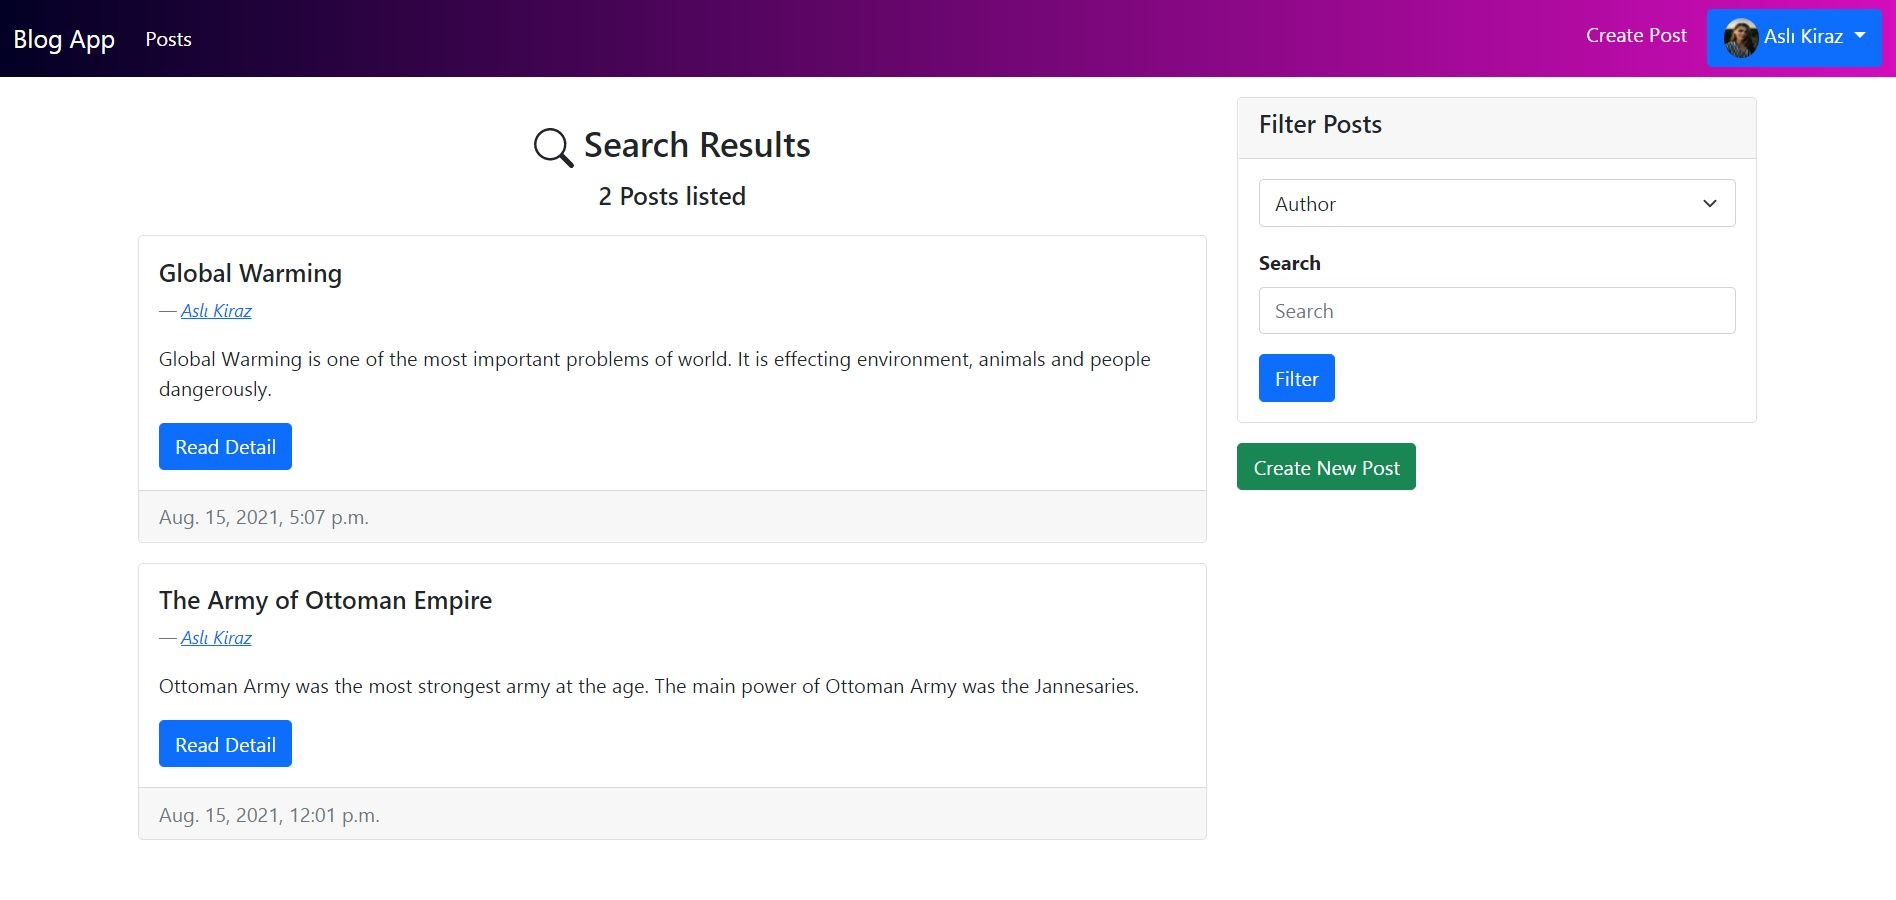
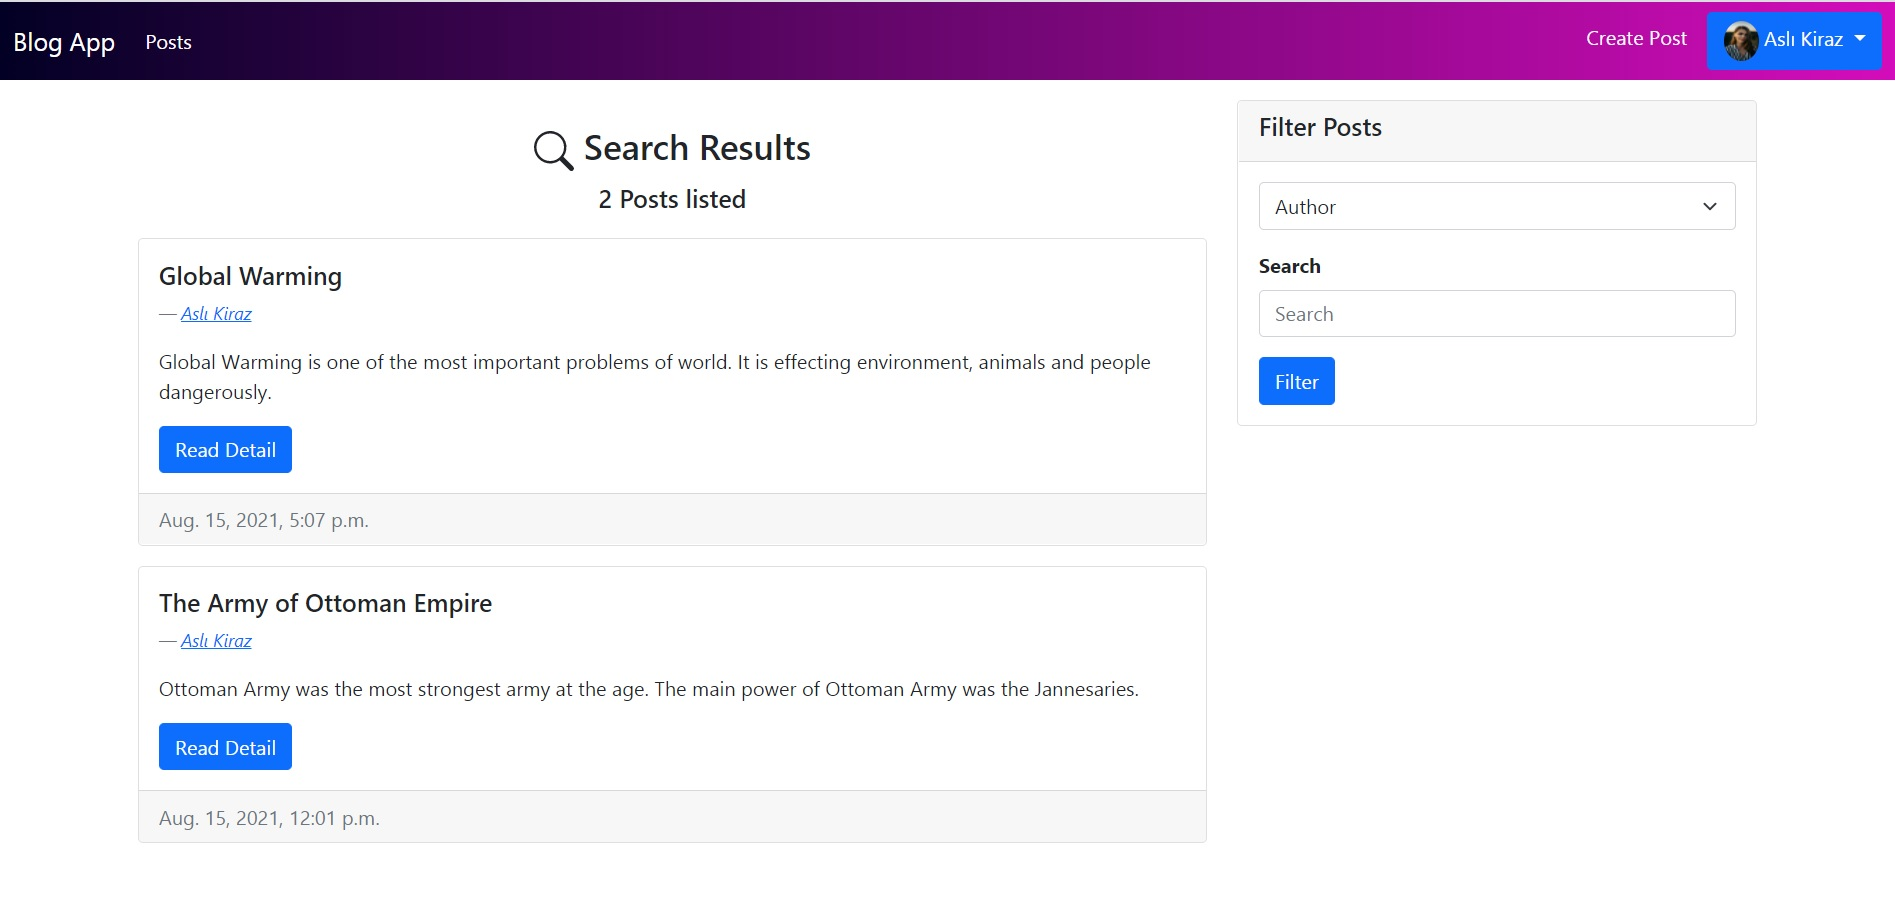
Last Commit

diff --git a/blog/templates/blog/author_post.html b/blog/templates/blog/author_post.html
@@ -1,97 +1,92 @@
 {% extends "blog/base.html" %}
 
 {% block content %}
-    <div class="row">
-        <div class="col-8">
-
-            {% if posts %}
-                <h3 style="margin-top: 20px; margin-bottom: 10px; text-align: center;">
-                    <svg xmlns="http://www.w3.org/2000/svg" width="32" height="32" fill="currentColor" class="bi bi-search" viewBox="0 0 16 16">
-                        <path d="M11.742 10.344a6.5 6.5 0 1 0-1.397 1.398h-.001c.03.04.062.078.098.115l3.85 3.85a1 1 0 0 0 1.415-1.414l-3.85-3.85a1.007 1.007 0 0 0-.115-.1zM12 6.5a5.5 5.5 0 1 1-11 0 5.5 5.5 0 0 1 11 0z"/>
-                      </svg> Search Results
-                </h3>
-                <h5 style="margin-top: 10px; margin-bottom: 20px; text-align: center;">
-                    {{page_obj.paginator.count}} Post{{page_obj.paginator.count|pluralize}} listed
-
-                </h5>
-                {% for post in posts %}
-        
-                    <div class="card w-100 mb-3" style="width: 18rem;">
-                
-                        <div class="card-body">
-                          <h5 class="card-title">{{ post.title }}</h5>
-                          <footer class="blockquote-footer mt-2"><cite title="Source Title"><a href="{% url 'blog:post-author' post.author.id %}">{{post.author}}</a> </cite></footer>
-                          <p class="card-text">{{ post.article }}</p>
-                          <a href="{% url 'blog:post-detail' post.id %}" class="btn btn-primary">Read Detail</a>
-                        </div>
-                        <div class="card-footer text-muted">
-                            {{post.publishedAt}}
-                        </div>
-                    </div>
-           
-                {% endfor %}
-            {% endif %}
-        </div>
-
-        <div class="col-4">
-            <div class="mb-3">
-                <div class="card">
-                    <div class="card-header">
-                        <h5>Filter Posts</h5>
-
-                    </div>
-                    <div class="card-body">
-                        <select class="form-select" aria-label="Default select example">
-                            <option value="author">Author</option>
-                            <option value="title">Title</option>
-                            <option value="publishedDay">Published Day</option>
-                          </select>
-
-                          <div class="mb-3 mt-3">
-                            <label for="exampleDropdownFormPassword2" class="form-label"> <b> Search</b></label>
-                            <input type="search" class="form-control" id="exampleDropdownFormPassword2" placeholder="Search">
-                            </div>
-                            <button type="submit" class="btn btn-primary">Filter</button>
-                    </div>
-              
-                </div>
-            </div>
-
-            {% if user.is_authenticated %}
+    <div class="container mt-3" style="height: 100vh;">
+        <div class="row">
+            <div class="col-8">
+    
+                {% if posts %}
+                    <h3 style="margin-top: 20px; margin-bottom: 10px; text-align: center;">
+                        <svg xmlns="http://www.w3.org/2000/svg" width="32" height="32" fill="currentColor" class="bi bi-search" viewBox="0 0 16 16">
+                            <path d="M11.742 10.344a6.5 6.5 0 1 0-1.397 1.398h-.001c.03.04.062.078.098.115l3.85 3.85a1 1 0 0 0 1.415-1.414l-3.85-3.85a1.007 1.007 0 0 0-.115-.1zM12 6.5a5.5 5.5 0 1 1-11 0 5.5 5.5 0 0 1 11 0z"/>
+                          </svg> Search Results
+                    </h3>
+                    <h5 style="margin-top: 10px; margin-bottom: 20px; text-align: center;">
+                        {{page_obj.paginator.count}} Post{{page_obj.paginator.count|pluralize}} listed
+    
+                    </h5>
+                    {% for post in posts %}
             
-                <div class="mx-auto">
-                    <a class="btn btn-success" href="{% url 'blog:post-create' %}">Create New Post</a>
-
-                </div>
-            {% endif %}
-            
-                
-               
-        </div>
-    </div>
-
-    {% if is_paginated %}
-        <nav aria-label="Page navigation example">
-            <ul class="pagination">
-                <li class="page-item"><a class="page-link" href="#">Previous</a></li>
-
-                {% for page in page_obj.paginator.page_range %}
-
-                    {% if page_obj.number == page %}
-                        <li class="page-item active"><a class="page-link" href="?page={{page}}">{{page}}</a></li>
-
-                    {% else %}
-                        <li class="page-item"><a class="page-link" href="?page={{page}}">{{page}}</a></li>
-
-                    {% endif %}
+                        <div class="card w-100 mb-3" style="width: 18rem;">
                     
-                {% endfor %}
-                <li class="page-item"><a class="page-link" href="#">Next</a></li>
-            </ul>
-        </nav>
-
-
-    {% endif %}
+                            <div class="card-body">
+                              <h5 class="card-title">{{ post.title }}</h5>
+                              <footer class="blockquote-footer mt-2"><cite title="Source Title"><a href="{% url 'blog:post-author' post.author.id %}">{{post.author}}</a> </cite></footer>
+                              <p class="card-text">{{ post.article }}</p>
+                              <a href="{% url 'blog:post-detail' post.id %}" class="btn btn-primary">Read Detail</a>
+                            </div>
+                            <div class="card-footer text-muted">
+                                {{post.publishedAt}}
+                            </div>
+                        </div>
+               
+                    {% endfor %}
+                {% endif %}
+            </div>
+    
+            <div class="col-4">
+                <div class="mb-3">
+                    <div class="card">
+                        <div class="card-header">
+                            <h5>Filter Posts</h5>
+    
+                        </div>
+                        <div class="card-body">
+                            <select class="form-select" aria-label="Default select example">
+                                <option value="author">Author</option>
+                                <option value="title">Title</option>
+                                <option value="publishedDay">Published Day</option>
+                              </select>
+    
+                              <div class="mb-3 mt-3">
+                                <label for="exampleDropdownFormPassword2" class="form-label"> <b> Search</b></label>
+                                <input type="search" class="form-control" id="exampleDropdownFormPassword2" placeholder="Search">
+                                </div>
+                                <button type="submit" class="btn btn-primary">Filter</button>
+                        </div>
+                  
+                    </div>
+                </div>
+              
+                   
+            </div>
+        </div>
+    
+        {% if is_paginated %}
+            <nav aria-label="Page navigation example">
+                <ul class="pagination">
+                    <li class="page-item"><a class="page-link" href="#">Previous</a></li>
+    
+                    {% for page in page_obj.paginator.page_range %}
+    
+                        {% if page_obj.number == page %}
+                            <li class="page-item active"><a class="page-link" href="?page={{page}}">{{page}}</a></li>
+    
+                        {% else %}
+                            <li class="page-item"><a class="page-link" href="?page={{page}}">{{page}}</a></li>
+    
+                        {% endif %}
+                        
+                    {% endfor %}
+                    <li class="page-item"><a class="page-link" href="#">Next</a></li>
+                </ul>
+            </nav>
+    
+    
+        {% endif %}
+    
+    </div>
+    
 
 
 {% endblock %}

diff --git a/blog/templates/blog/home.html b/blog/templates/blog/home.html
@@ -2,6 +2,7 @@
 
 {% block content %}
     <div class="container mt-3" style="height: 100vh;">
+        
         <div class="row">
             <div class="col-8">
     
